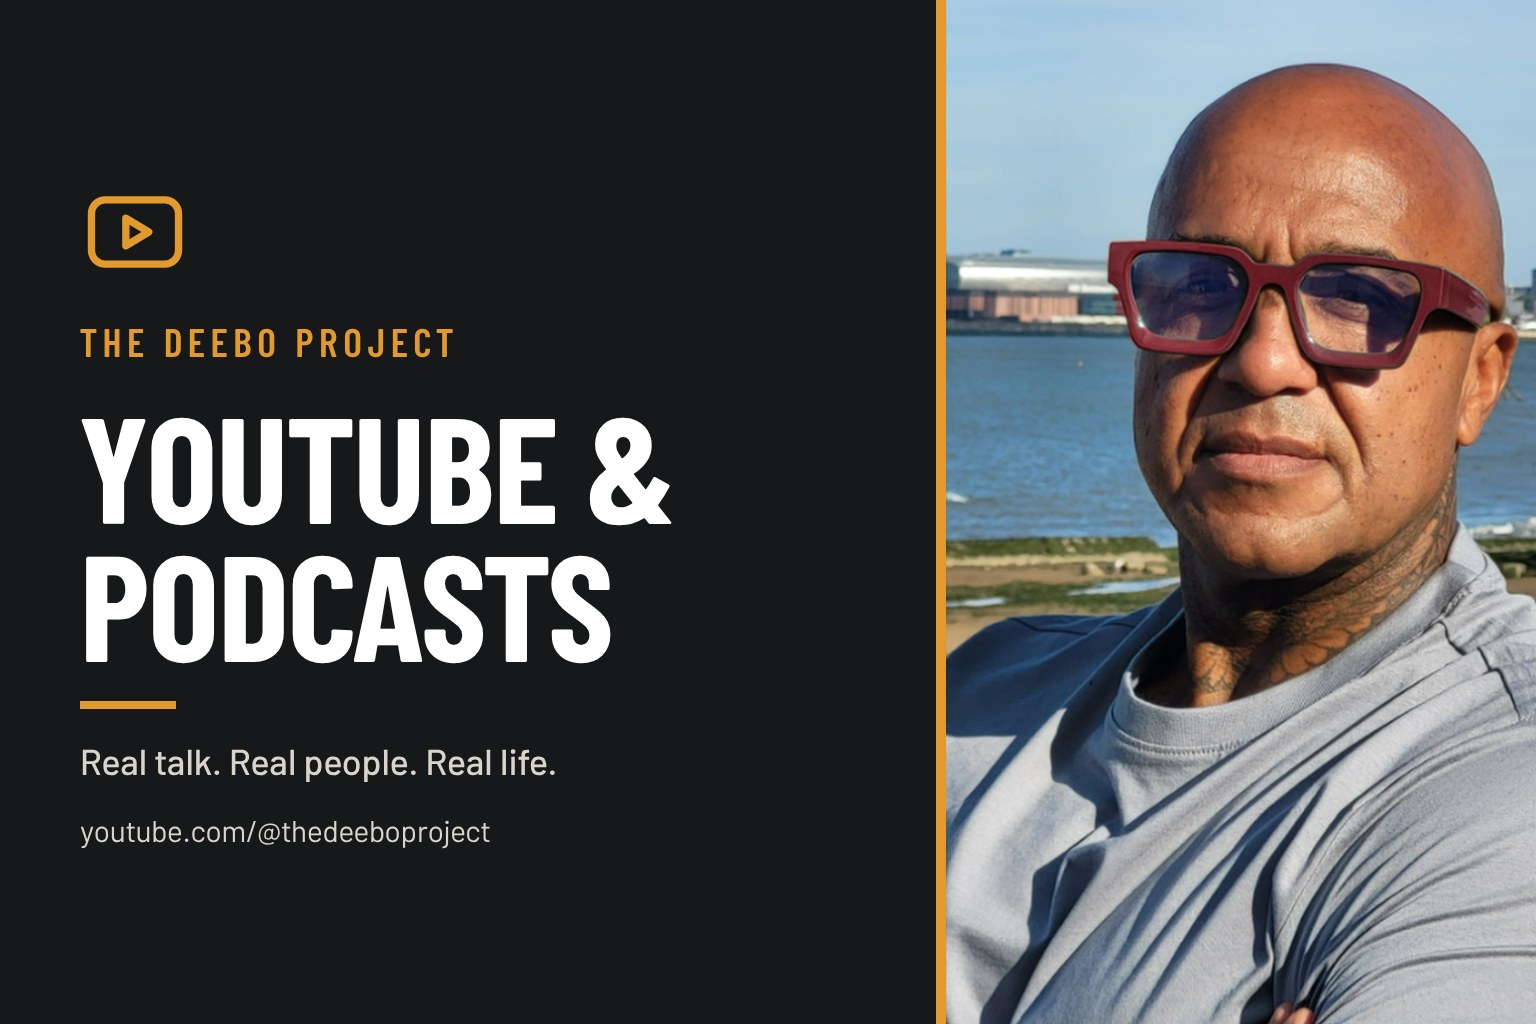
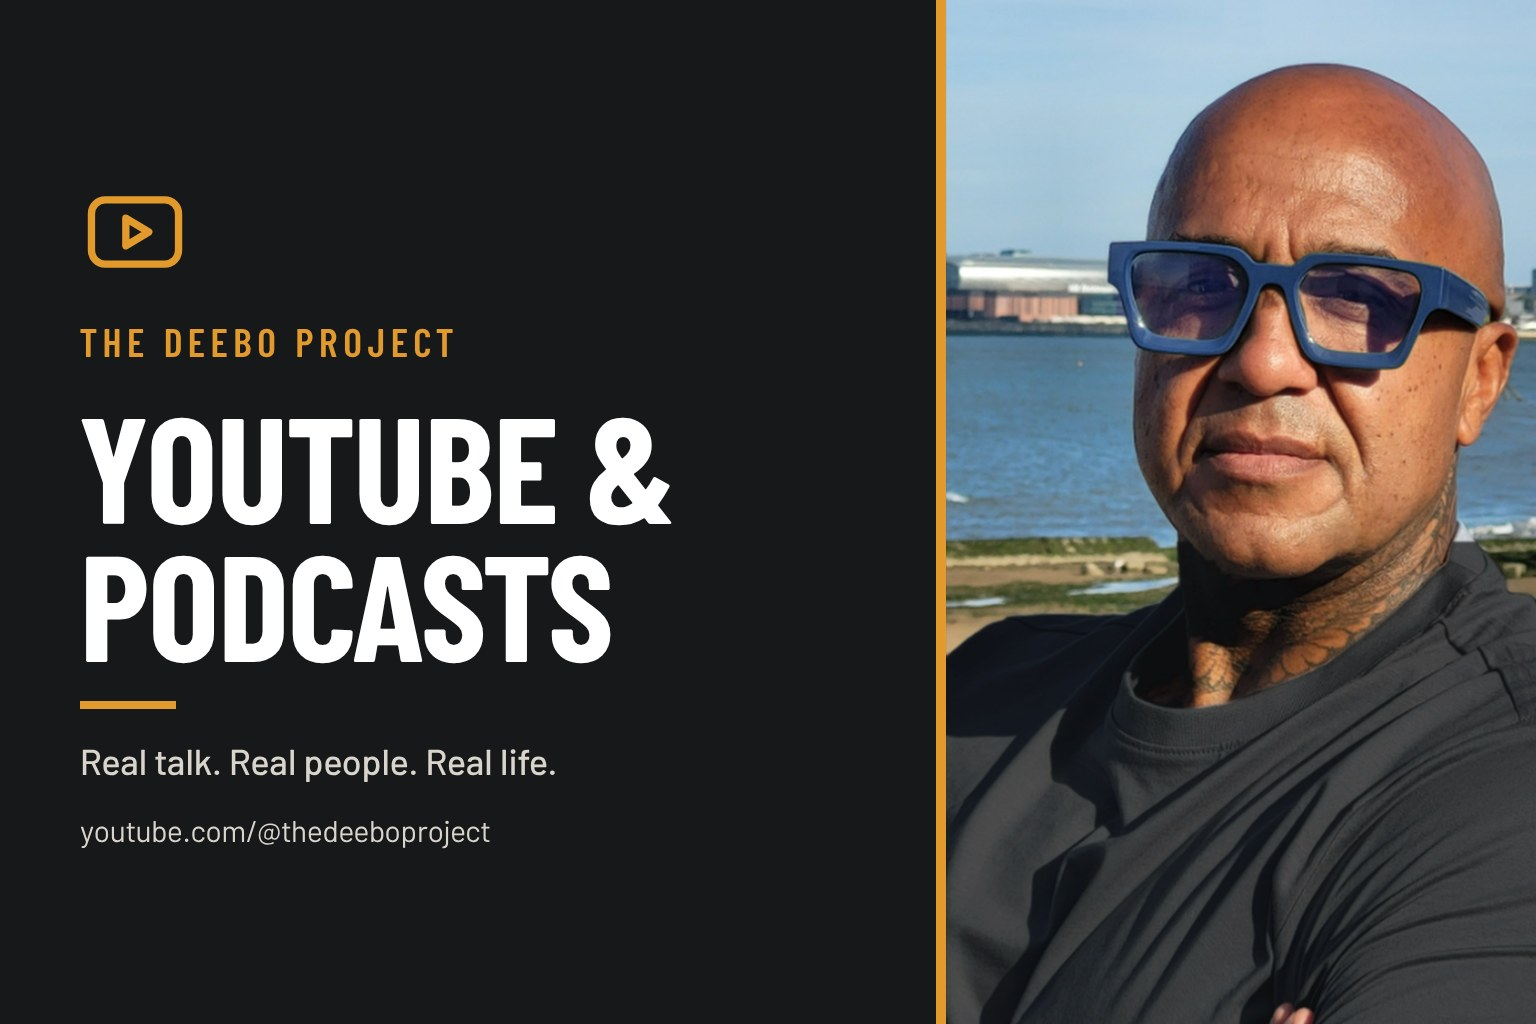
YouTube photos: blue glasses frames and dark T-shirt
Claude-Session: https://claude.ai/code/session_014XBX35JU8cmv1FCVg4uKPd

Changed region(s): [[0.5938, 0.5312, 1.0, 1.0], [0.7188, 0.2188, 0.9688, 0.375]]

diff --git a/index.html b/index.html
@@ -1163,7 +1163,7 @@ More →
      ================================================= -->
 
 <article class="business-panel"
-         style="--panel-image: url('deebo-youtube-panel.jpg?v=4');">
+         style="--panel-image: url('deebo-youtube-panel.jpg?v=5');">
 
 
 <div class="panel-content">
@@ -1825,7 +1825,7 @@ Get in Touch
 
 
 <img class="business-page-image"
-     src="YouTube-Deebo-Project.jpeg?v=4"
+     src="YouTube-Deebo-Project.jpeg?v=5"
      alt="YouTube and Podcasts">
 
 
